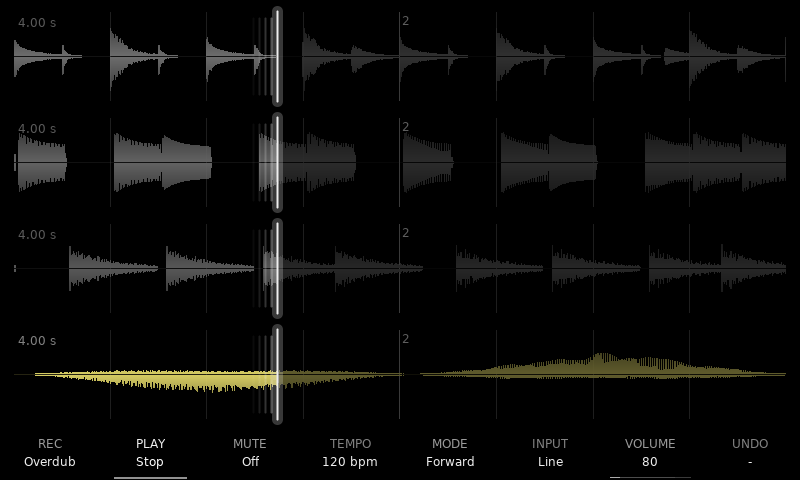
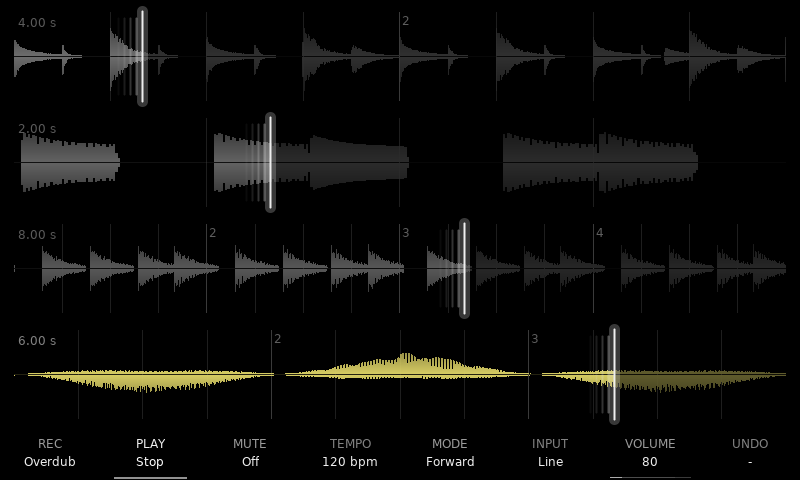
README shots: loops of different lengths, fixed mode-bar shots; credits at the end
- The demo takes are 2, 1, 4 and 3 bars, so the playheads sit in different
  places; the recording shot lands in the fourth bar (the end-of-take cue).
- The tempo / volume holds were shorter than a tap (400 ms), so their
  release opened the mixer and the mode bar, granular and Half rev shots
  showed the home page. Held 500 ms now.
- README: the OpenTracker / SIDTracker credit moves to a Credits section
  at the end.

diff --git a/README.md b/README.md
@@ -1,11 +1,6 @@
 # Retrack for Polyend Tracker
 
-A from-scratch 4-track looper firmware for the original Polyend Tracker. The
-app is new; the hardware layer (board bring-up, SDRAM, FT81x display,
-SGTL5000 codec, keypad, pad LEDs, SD card, USB) is copied from
-[OpenTracker](https://github.com/sandlbn/polyend-tracker-re), MIT, the same
-way [SIDTracker](https://github.com/sandlbn/SidTracker) does it. See
-`PROVENANCE.md` for exactly what was copied.
+A from-scratch 4-track looper firmware for the original Polyend Tracker.
 
 https://github.com/user-attachments/assets/0d21f3ef-e740-4524-94a1-e38987e352ee
 
@@ -474,3 +469,11 @@ the right channel below it.
 
 Every take starts in phase with the bar grid; how it ends is the Stop option
 (Shift + F5; on bar by default).
+
+## Credits
+
+The app is new; the hardware layer (board bring-up, SDRAM, FT81x display,
+SGTL5000 codec, keypad, pad LEDs, SD card, USB) is copied from
+[OpenTracker](https://github.com/sandlbn/polyend-tracker-re), MIT, the same
+way [SIDTracker](https://github.com/sandlbn/SidTracker) does it. See
+`PROVENANCE.md` for exactly what was copied.
